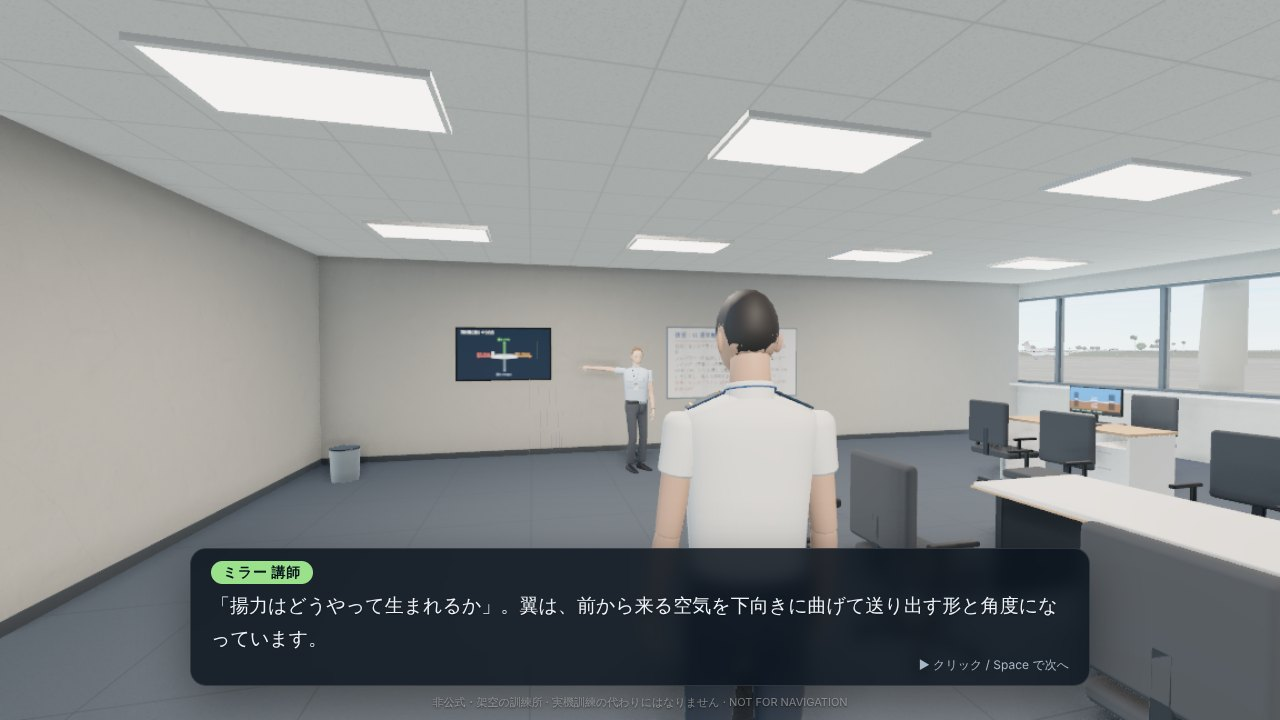
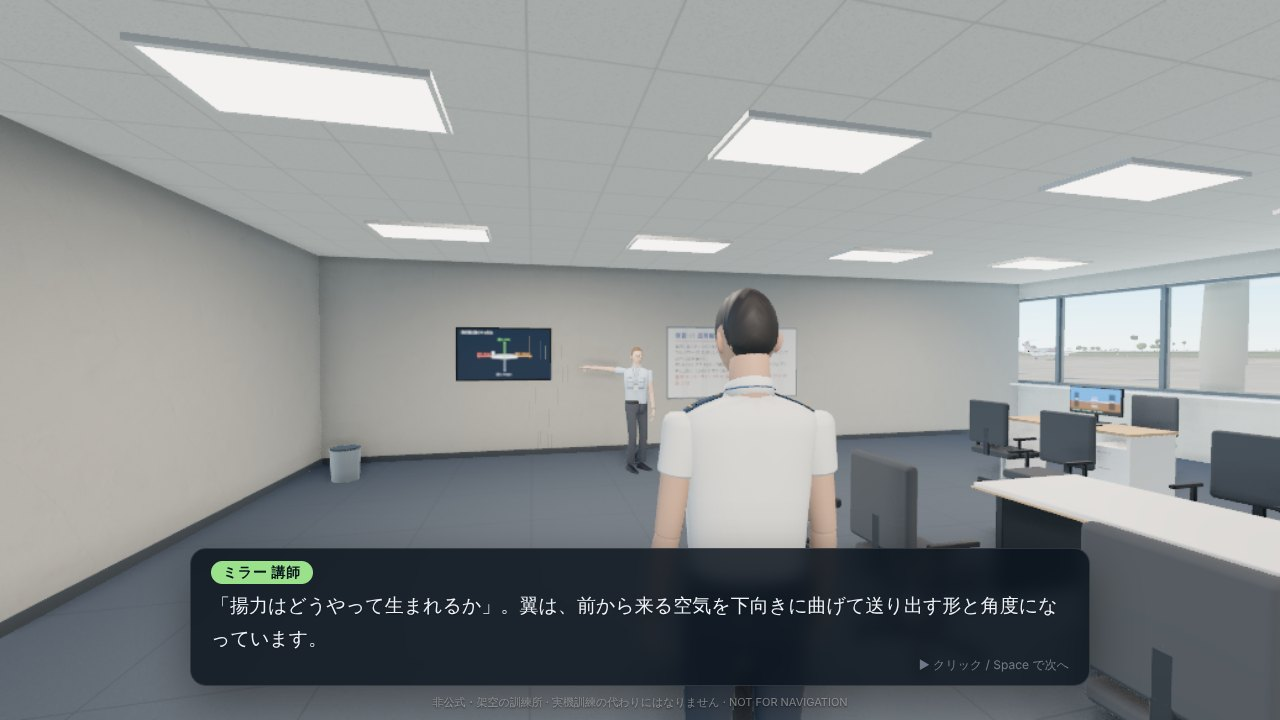
CADET M5: the screenshots retaken with the new people (01-05, 09-11), the people before / after (docs/actor); the right seat's own name on the cockpit's lines
- on the check ride's day, boarding before the briefing put the chief instructor in the right seat with the
  instructor's name and colour on his lines: every cockpit talk now carries the seat's person (fly-mode).
- README, PLAN: the people's model, the fixes, M5 done.

Claude-Session: https://claude.ai/code/session_01RyHoGQCBQXQDZ8j6avHPBr

diff --git a/cadet/src/flight/fly-mode.js b/cadet/src/flight/fly-mode.js
@@ -44,7 +44,7 @@ const HOME_PITCH = -4 * DEG;            // the head at rest: a little down, the 
 export function createFlyMode(ctx) {
   const { FL, L, scene, camera, sky, input, settings, audio, toast, hud, world } = ctx;
   // who is in the right seat (chosen when boarding): the instructor's actor, or the chief instructor's, or no one
-  let crew = ctx.instructor, crewName = ctx.instructorName || '早瀬 教官', crewId = 'instructor';
+  let crew = ctx.instructor, crewName = ctx.instructorName || '早瀬 教官', crewColor = null, crewId = 'instructor';
   const P = FL.physics, AV = FL.avionics;
   const A = P.AIRCRAFT.find(a => a.id === 'pa28');
   const flight = createFlight(FL, {
@@ -116,7 +116,12 @@ export function createFlyMode(ctx) {
   // ---- the instructor's talk in the seat (the dialogue UI, with its own runner)
   // (the talk is the day's own: made again each time the cadet sits down)
   let runner = null;
-  const makeRunner = (data) => { runner = createRunner({ data, state: ctx.talkState, hooks: { onHook } }); runner.onChange(onTalkView); return runner; };
+  // (the one in the right seat speaks: the chief instructor on the check ride has his own name on the lines)
+  const seatName = (data) => {
+    const sp = data.speakers && data.speakers.instructor; if (!sp || !crewName) return data;
+    return { ...data, speakers: { ...data.speakers, instructor: { ...sp, name_ja: crewName, ...(crewColor ? { color: crewColor } : {}) } } };
+  };
+  const makeRunner = (data) => { runner = createRunner({ data: seatName(data), state: ctx.talkState, hooks: { onHook } }); runner.onChange(onTalkView); return runner; };
   const onTalkView = (v) => {
     if (v) { ctx.dui.show(v); if (crew && v.speaker !== 'player' && !crew.gesturing && Math.random() < 0.25) crew.gesture('explain'); }
     else endTalk();
@@ -182,7 +187,7 @@ export function createFlyMode(ctx) {
       systems.setCold(flight.s); rpmVisual = 0;                     // the aircraft as left on the stand: everything off
       // the right seat: the instructor (or the chief instructor), or no one on the first solo
       const cw = ctx.crew ? ctx.crew() : { actor: ctx.instructor, name: ctx.instructorName };
-      crew = cw ? cw.actor : null; crewName = cw ? cw.name : ''; crewId = cw ? cw.id || 'instructor' : null;
+      crew = cw ? cw.actor : null; crewName = cw ? cw.name : ''; crewColor = cw ? cw.color || null : null; crewId = cw ? cw.id || 'instructor' : null;
       if (crew) {
         live.root.add(crew.root);
         crew.root.position.set(seat.position[0], seat.position[1], seat.position[2]); crew.root.rotation.set(0, seat.yaw, 0);
@@ -289,9 +294,7 @@ export function createFlyMode(ctx) {
     phase = 'day'; debSum = sum;
     // the first solo: no one in the seat to debrief it — the day is signed off outside (ctx.onSolo)
     if (!crew) { if (dayMode.day) dayMode.day.debriefRead(); if (ctx.onSolo) ctx.onSolo(sum); return; }
-    const data = debriefDialogs(sum);
-    if (data.speakers && data.speakers.instructor) data.speakers = { ...data.speakers, instructor: { ...data.speakers.instructor, name_ja: crewName } };
-    startTalk('debrief', data);
+    startTalk('debrief', seatName(debriefDialogs(sum)));
   }
   let debSum = null;
   function signLogbook() {

diff --git a/cadet/src/main.js b/cadet/src/main.js
@@ -592,7 +592,7 @@ async function boot() {
     crew: () => {
       const it = flightItem(), open = it && !flownToday();
       if (open && it.kind === 'solo' && talkState.flags.briefed_today) return null;
-      if (open && it.kind === 'checkride' && talkState.flags.c1_briefed) return { actor: cast.actor('chief'), name: PEOPLE.chief.title, id: 'chief' };
+      if (open && it.kind === 'checkride' && talkState.flags.c1_briefed) return { actor: cast.actor('chief'), name: PEOPLE.chief.title, color: PEOPLE.chief.color, id: 'chief' };
       return { actor: instructor, name: INSTRUCTOR.title_ja, id: 'instructor' };
     },
     boardDialogs: () => boardTalk(),
